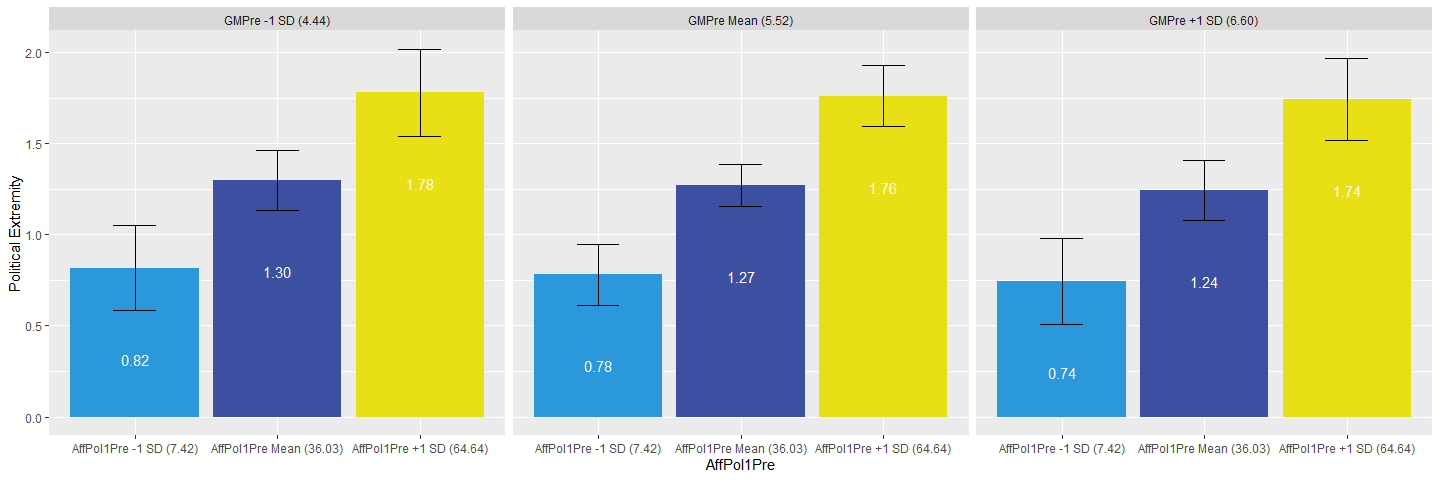
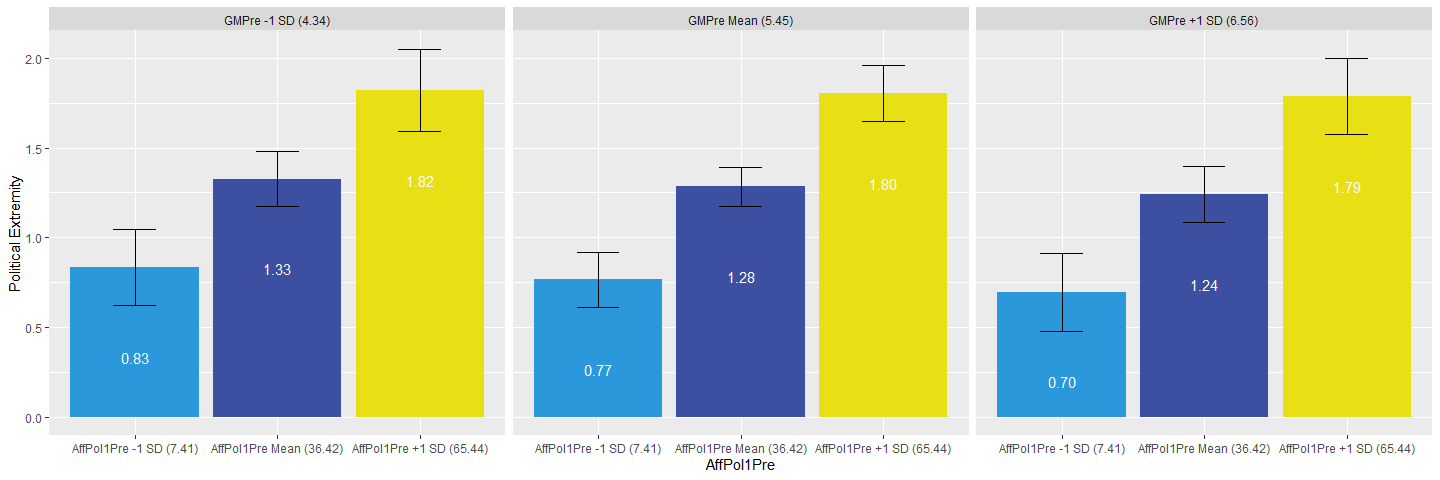
remove report dependency

diff --git a/README.md b/README.md
@@ -32,21 +32,21 @@ Codes tables (to add UserType, OpenMindVersion and other variables).
 pacman::p_load(tidyverse, openmindR)
 
 
-assessmentv6 <- om_download_at(key, tables = "AssessmentV6",
+assessmentv6 <- om_download_at(tables = "AssessmentV6",
                                clean = T, v6.1 = T)
 
 ## ParticipantProgress1
-pp1 <- om_download_at(key, tables = "ParticipantProgress") %>% 
+pp1 <- om_download_at(tables = "ParticipantProgress") %>% 
   select(OMID, AccessCode, OpenMindVersion, Country, 
          Research, DateStarted, DateFinished)
 
 ## ParticipantProgress2
-pp2 <- om_download_at(key, tables = "ParticipantProgress2") %>% 
+pp2 <- om_download_at(tables = "ParticipantProgress2") %>% 
   select(OMID, AccessCode, OpenMindVersion, Country, 
          Research, DateStarted, DateFinished)
 
 ## AccessCodes
-acs <- om_download_at(key, tables = "AccessCodes") %>%
+acs <- om_download_at(tables = "AccessCodes") %>%
   select(AccessCode, UserType, GroupName)
 
 ## bring it all together
@@ -106,9 +106,7 @@ it into a folder called “Data” under Research and filter down to only
 include V6.1 data.
 
 ``` r
-key <- readr::read_lines("../../Research/Projects/Keys/airtabler.txt")
-
-assessmentv6 <- om_download_at(key, 
+assessmentv6 <- om_download_at(
                             tables = "AssessmentV6", 
                             clean = TRUE, 
                             file = "../../../Data/assessmentv6.1.csv",
@@ -119,14 +117,15 @@ Here is another example code for downloading a clean version of
 Assessment v7:
 
 ``` r
-assessmentv7 <- om_download_at(key, 
+assessmentv7 <- om_download_at(
                             tables = "AssessmentV7", 
                             clean = TRUE)
 ```
 
+    ## Seting up OM key
     ## Seting up key
     ## Download AssessmentV7 Data
-    ## Done. AssessmentV7 Data has 1322 rows
+    ## Done. AssessmentV7 Data has 1585 rows
 
 ## `om_filter_data`
 
@@ -287,7 +286,7 @@ variables (so 20 in total):
 key <- read_lines("../../Keys/airtabler.txt")
 
 ## download participant progress data
-pp_dat <- om_download_at(key, tables = "ParticipantProgress")
+pp_dat <- om_download_at(tables = "ParticipantProgress")
 
 
 ## this parses all Lifehack data so far
@@ -318,11 +317,9 @@ variables.
 v4 <- read.csv("../../../Data/2019-10-29_assessmentv4.csv") 
 v5 <- read.csv("../../../Data/2019-10-29_assessmentv5.csv") 
 
-## get key
-key <- readr::read_lines("../../Keys/airtabler.txt")
 
 ## get (clean) assessment v6 data
-v6 <- om_download_at(key = key, tables = "AssessmentV6", clean = T)
+v6 <- om_download_at(tables = "AssessmentV6", clean = T)
 
 
 ## merge all three datasets and only keep common variables
@@ -369,7 +366,7 @@ First we download v7 data:
 
 ``` r
 ## Get Key (may differ in your code)
-key <- readr::read_lines("../../Research/Projects/Keys/airtabler.txt")
+
 
 ## get v7 data
 assessmentv7 <- om_download_at(key,
@@ -505,9 +502,9 @@ results$model
     ## 
     ## Coefficients:
     ##                        (Intercept)               ppol_catConservatives  
-    ##                            1.70714                             0.09286  
+    ##                            1.74286                             0.05360  
     ##                       genderFemale  ppol_catConservatives:genderFemale  
-    ##                            0.08371                            -0.17121
+    ##                            0.06101                            -0.17747
 
 ### Show a regression table
 
@@ -519,19 +516,19 @@ results$table
     ## ==============================================
     ##                                     Model 1   
     ## ----------------------------------------------
-    ## (Intercept)                           1.71 ***
+    ## (Intercept)                           1.74 ***
+    ##                                      (0.05)   
+    ## ppol_catConservatives                 0.05    
+    ##                                      (0.08)   
+    ## genderFemale                          0.06    
     ##                                      (0.06)   
-    ## ppol_catConservatives                 0.09    
-    ##                                      (0.09)   
-    ## genderFemale                          0.08    
-    ##                                      (0.07)   
-    ## ppol_catConservatives:genderFemale   -0.17    
-    ##                                      (0.12)   
+    ## ppol_catConservatives:genderFemale   -0.18    
+    ##                                      (0.11)   
     ## ----------------------------------------------
     ## R^2                                   0.00    
-    ## Adj. R^2                             -0.00    
-    ## Num. obs.                           626       
-    ## RMSE                                  0.68    
+    ## Adj. R^2                              0.00    
+    ## Num. obs.                           750       
+    ## RMSE                                  0.69    
     ## ==============================================
     ## *** p < 0.001, ** p < 0.01, * p < 0.05
 
@@ -549,20 +546,20 @@ standardized version of the dataset. Effect sizes were labelled
 following Funder’s (2019) recommendations.
 
 The model explains a not significant and very weak proportion of
-variance (R2 = 0.00, F(3, 622) = 0.74, p = 0.528, adj. R2 = 0.00). The
+variance (R2 = 0.00, F(3, 746) = 1.01, p = 0.388, adj. R2 = 0.00). The
 model’s intercept, corresponding to ppol\_extreme = 0, ppol\_cat =
-Progressives and gender = Male, is at 1.71 (SE = 0.06, 95% CI \[1.59,
-1.82\], p \< .001). Within this model:
+Progressives and gender = Male, is at 1.74 (SE = 0.05, 95% CI \[1.64,
+1.84\], p \< .001). Within this model:
 
   - The effect of ppol\_catConservatives is positive and can be
-    considered as very small and not significant (beta = 0.09, SE =
-    0.09, 95% CI \[-0.08, 0.27\], std. beta = 0.14, p = 0.294).
-  - The effect of genderFemale is positive and can be considered as very
-    small and not significant (beta = 0.08, SE = 0.07, 95% CI \[-0.05,
-    0.22\], std. beta = 0.12, p = 0.225).
+    considered as tiny and not significant (beta = 0.05, SE = 0.08, 95%
+    CI \[-0.11, 0.22\], std. beta = 0.08, p = 0.518).
+  - The effect of genderFemale is positive and can be considered as tiny
+    and not significant (beta = 0.06, SE = 0.06, 95% CI \[-0.06, 0.19\],
+    std. beta = 0.09, p = 0.335).
   - The effect of ppol\_catConservatives:genderFemale is negative and
-    can be considered as small and not significant (beta = -0.17, SE =
-    0.12, 95% CI \[-0.41, 0.07\], std. beta = -0.25, p = 0.163).
+    can be considered as small and not significant (beta = -0.18, SE =
+    0.11, 95% CI \[-0.40, 0.05\], std. beta = -0.26, p = 0.119).
 
 ### Show estimated means
 
@@ -573,10 +570,10 @@ results$estimated_means %>%
 
 | gender | ppol\_cat     |     Mean |        SE |  CI\_low | CI\_high |
 | :----- | :------------ | -------: | --------: | -------: | -------: |
-| Male   | Progressives  | 1.707143 | 0.0571079 | 1.594995 | 1.819290 |
-| Male   | Conservatives | 1.800000 | 0.0675709 | 1.667305 | 1.932695 |
-| Female | Progressives  | 1.790850 | 0.0386277 | 1.714993 | 1.866706 |
-| Female | Conservatives | 1.712500 | 0.0755466 | 1.564143 | 1.860857 |
+| Male   | Progressives  | 1.742857 | 0.0519687 | 1.640835 | 1.844879 |
+| Male   | Conservatives | 1.796460 | 0.0646727 | 1.669498 | 1.923422 |
+| Female | Progressives  | 1.803867 | 0.0361332 | 1.732933 | 1.874802 |
+| Female | Conservatives | 1.680000 | 0.0687481 | 1.545037 | 1.814963 |
 
 ### Show a plot of the means
 
@@ -678,13 +675,6 @@ results <- om_lmer(mixed,
                    type = "int")
 ```
 
-    ## Error: Confidence intervals could not be computed.
-    ## * Reason: "non-conformable arguments"
-    ## * Source: mm %*% vcm
-    ## Error: Confidence intervals could not be computed.
-    ## * Reason: "non-conformable arguments"
-    ## * Source: mm %*% vcm
-
 ### Show the model
 
 ``` r
@@ -694,19 +684,19 @@ results$model
     ## Linear mixed model fit by REML ['lmerMod']
     ## Formula: Response ~ Time * gender + (1 | OMID)
     ##    Data: cleaned_dat_long
-    ## REML criterion at convergence: 7103.671
+    ## REML criterion at convergence: 8643.785
     ## Random effects:
     ##  Groups   Name        Std.Dev.
-    ##  OMID     (Intercept) 24.14   
-    ##  Residual             13.38   
-    ## Number of obs: 779, groups:  OMID, 492
+    ##  OMID     (Intercept) 24.79   
+    ##  Residual             13.57   
+    ## Number of obs: 945, groups:  OMID, 586
     ## Fixed Effects:
-    ##           (Intercept)               TimePost           TimeFollowUp  
-    ##                24.797                 -5.385                 -3.355  
-    ##          genderFemale  TimePost:genderFemale  
-    ##                11.816                 -6.128  
-    ## fit warnings:
-    ## fixed-effect model matrix is rank deficient so dropping 1 column / coefficient
+    ##               (Intercept)                   TimePost  
+    ##                    25.642                     -3.873  
+    ##              TimeFollowUp               genderFemale  
+    ##                   -14.608                     10.507  
+    ##     TimePost:genderFemale  TimeFollowUp:genderFemale  
+    ##                    -6.358                     11.857
 
 ### Show a regression table
 
@@ -715,28 +705,30 @@ results$table
 ```
 
     ## 
-    ## ===================================
-    ##                        Model 1     
-    ## -----------------------------------
-    ## (Intercept)               24.80 ***
-    ##                           (1.97)   
-    ## TimePost                  -5.39 ** 
-    ##                           (1.78)   
-    ## TimeFollowUp              -3.36    
-    ##                          (11.35)   
-    ## genderFemale              11.82 ***
-    ##                           (2.54)   
-    ## TimePost:genderFemale     -6.13 ** 
-    ##                           (2.26)   
-    ## -----------------------------------
-    ## AIC                     7117.67    
-    ## BIC                     7150.28    
-    ## Log Likelihood         -3551.84    
-    ## Num. obs.                779       
-    ## Num. groups: OMID        492       
-    ## Var: OMID (Intercept)    582.52    
-    ## Var: Residual            178.99    
-    ## ===================================
+    ## =======================================
+    ##                            Model 1     
+    ## ---------------------------------------
+    ## (Intercept)                   25.64 ***
+    ##                               (1.83)   
+    ## TimePost                      -3.87 *  
+    ##                               (1.66)   
+    ## TimeFollowUp                 -14.61    
+    ##                              (16.27)   
+    ## genderFemale                  10.51 ***
+    ##                               (2.38)   
+    ## TimePost:genderFemale         -6.36 ** 
+    ##                               (2.07)   
+    ## TimeFollowUp:genderFemale     11.86    
+    ##                              (19.93)   
+    ## ---------------------------------------
+    ## AIC                         8659.79    
+    ## BIC                         8698.59    
+    ## Log Likelihood             -4321.89    
+    ## Num. obs.                    945       
+    ## Num. groups: OMID            586       
+    ## Var: OMID (Intercept)        614.79    
+    ## Var: Residual                184.03    
+    ## =======================================
     ## *** p < 0.001, ** p < 0.01, * p < 0.05
 
 ### Show an interpretation of the model
@@ -753,23 +745,26 @@ optimizer) to predict Response with Time and gender (formula = Response
 on a standardized version of the dataset. Effect sizes were labelled
 following Funder’s (2019) recommendations.The model’s total explanatory
 power is substantial (conditional R2 = 0.78) and the part related to the
-fixed effects alone (marginal R2) is of 0.05. The model’s intercept,
+fixed effects alone (marginal R2) is of 0.04. The model’s intercept,
 corresponding to Response = 0, Time = Pre, gender = Male and OMID =
-1002059522913, is at 24.80 (SE = 1.97, 95% CI \[20.94, 28.65\], p \<
+1002059522913, is at 25.64 (SE = 1.83, 95% CI \[22.05, 29.23\], p \<
 .001). Within this model:
 
   - The effect of TimePost is negative and can be considered as very
-    small and significant (beta = -5.39, SE = 1.78, 95% CI \[-8.87,
-    -1.90\], std. beta = -0.19, p \< .01).
-  - The effect of TimeFollowUp is negative and can be considered as very
-    small and not significant (beta = -3.36, SE = 11.35, 95% CI
-    \[-25.60, 18.89\], std. beta = -0.12, p = 0.767).
+    small and significant (beta = -3.87, SE = 1.66, 95% CI \[-7.12,
+    -0.63\], std. beta = -0.13, p \< .05).
+  - The effect of TimeFollowUp is negative and can be considered as
+    medium and not significant (beta = -14.61, SE = 16.27, 95% CI
+    \[-46.50, 17.28\], std. beta = -0.51, p = 0.369).
   - The effect of genderFemale is positive and can be considered as
-    medium and significant (beta = 11.82, SE = 2.54, 95% CI \[6.84,
-    16.79\], std. beta = 0.42, p \< .001).
+    small and significant (beta = 10.51, SE = 2.38, 95% CI \[5.85,
+    15.17\], std. beta = 0.36, p \< .001).
   - The effect of TimePost:genderFemale is negative and can be
-    considered as small and significant (beta = -6.13, SE = 2.26, 95% CI
-    \[-10.55, -1.71\], std. beta = -0.22, p \< .01).
+    considered as small and significant (beta = -6.36, SE = 2.07, 95% CI
+    \[-10.42, -2.30\], std. beta = -0.22, p \< .01).
+  - The effect of TimeFollowUp:genderFemale is positive and can be
+    considered as medium and not significant (beta = 11.86, SE = 19.93,
+    95% CI \[-27.20, 50.92\], std. beta = 0.41, p = 0.552).
 
 ### Show estimated means
 
@@ -778,14 +773,14 @@ results$estimated_means %>%
   knitr::kable()
 ```
 
-| Time | predicted | group  | group\_col |
-| ---: | --------: | :----- | :--------- |
-|    1 |  24.79708 | Male   | Male       |
-|    1 |  36.61356 | Female | Female     |
-|    2 |  19.41176 | Male   | Male       |
-|    2 |  25.09980 | Female | Female     |
-|    3 |  21.44186 | Male   | Male       |
-|    3 |  33.25834 | Female | Female     |
+| Time | predicted | std.error |   conf.low | conf.high | group  | group\_col |
+| ---: | --------: | --------: | ---------: | --------: | :----- | :--------- |
+|    1 |  25.64231 |  1.831546 |   22.05254 |  29.23207 | Male   | Male       |
+|    1 |  36.14943 |  1.515080 |   33.17992 |  39.11893 | Female | Female     |
+|    2 |  21.76919 |  2.133368 |   17.58786 |  25.95051 | Male   | Male       |
+|    2 |  25.91874 |  1.669731 |   22.64613 |  29.19136 | Female | Female     |
+|    3 |  11.03439 | 16.326028 | \-20.96403 |  43.03282 | Male   | Male       |
+|    3 |  33.39802 | 11.561290 |   10.73831 |  56.05773 | Female | Female     |
 
 ### Show a plot of the means
 
